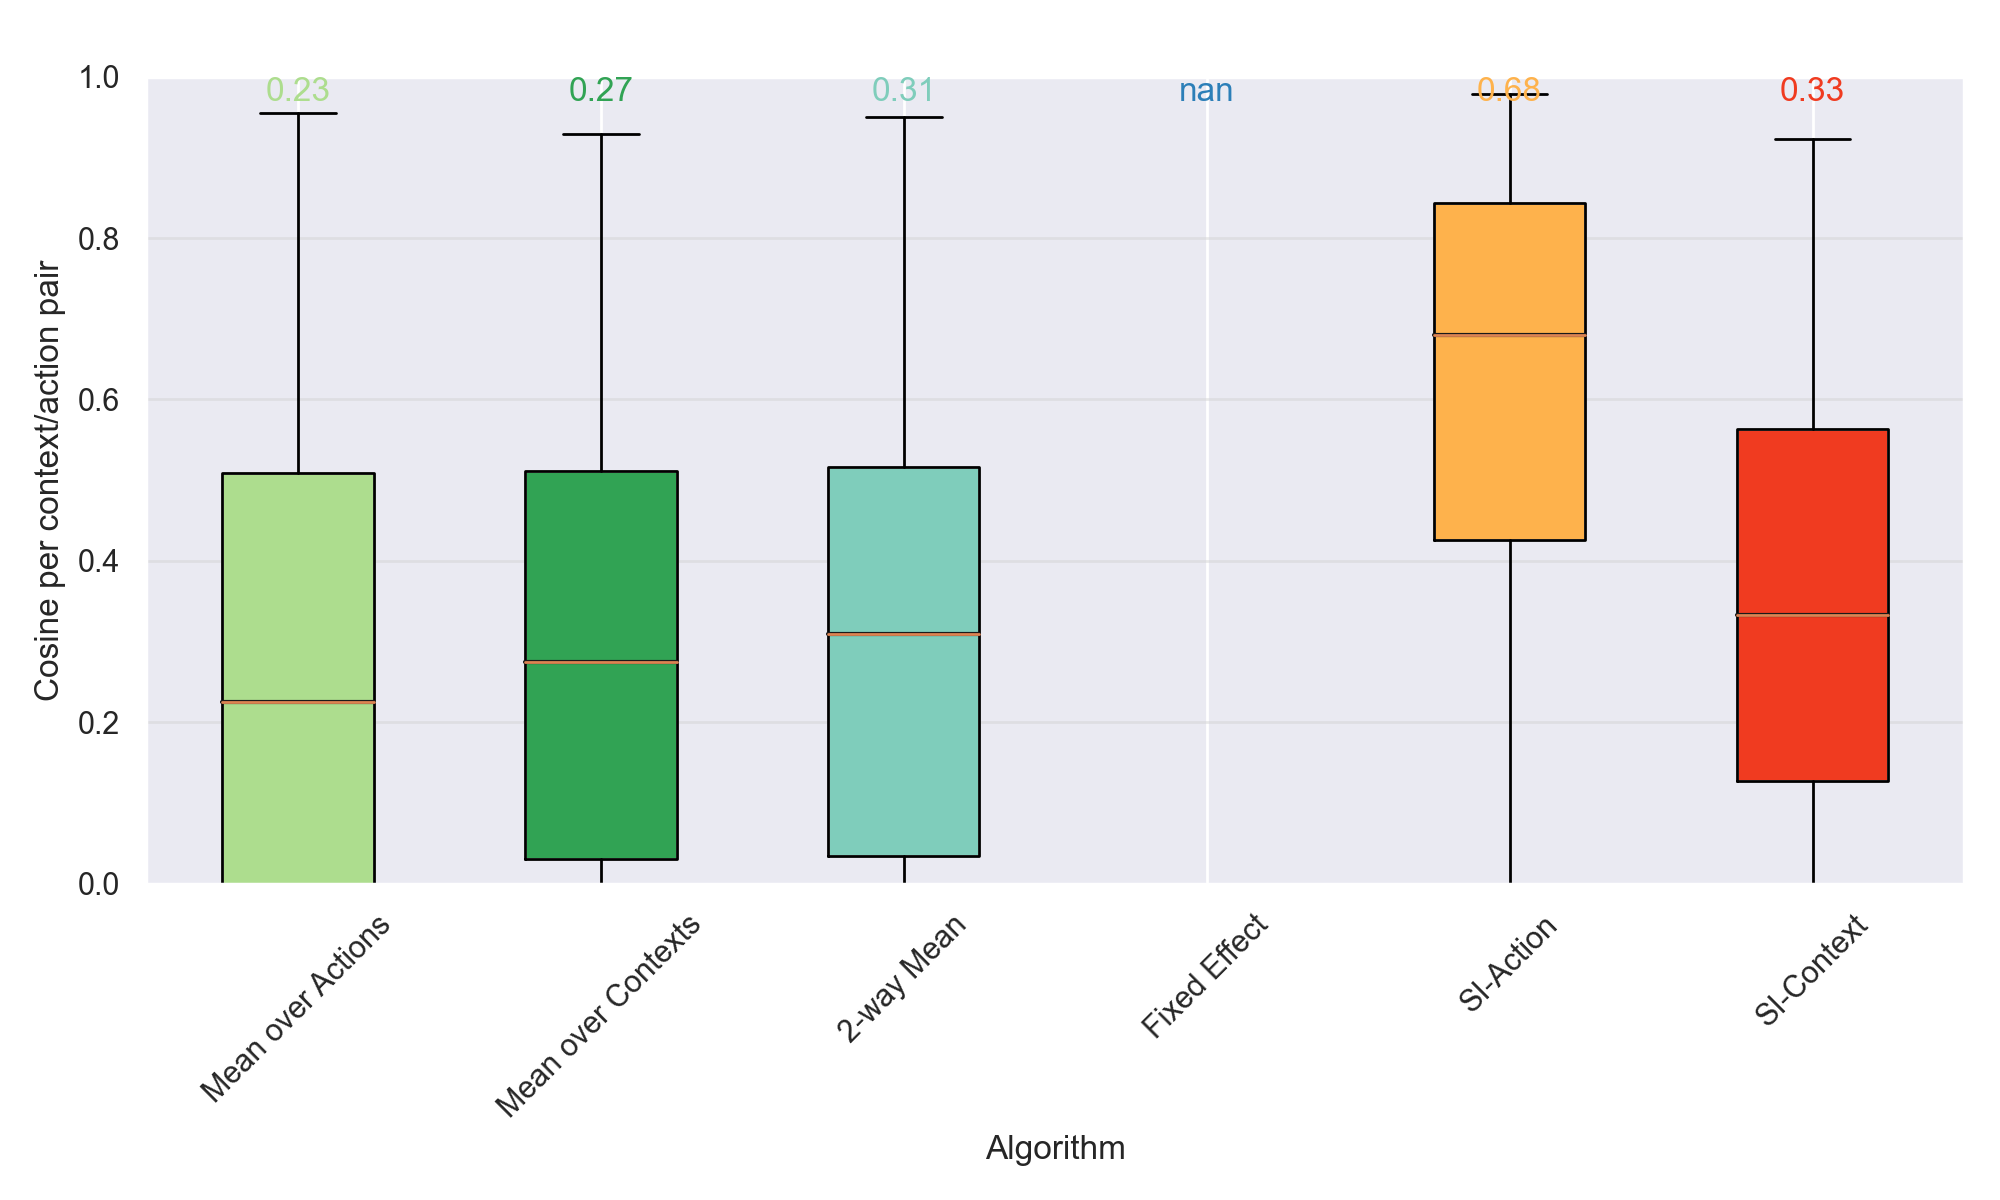
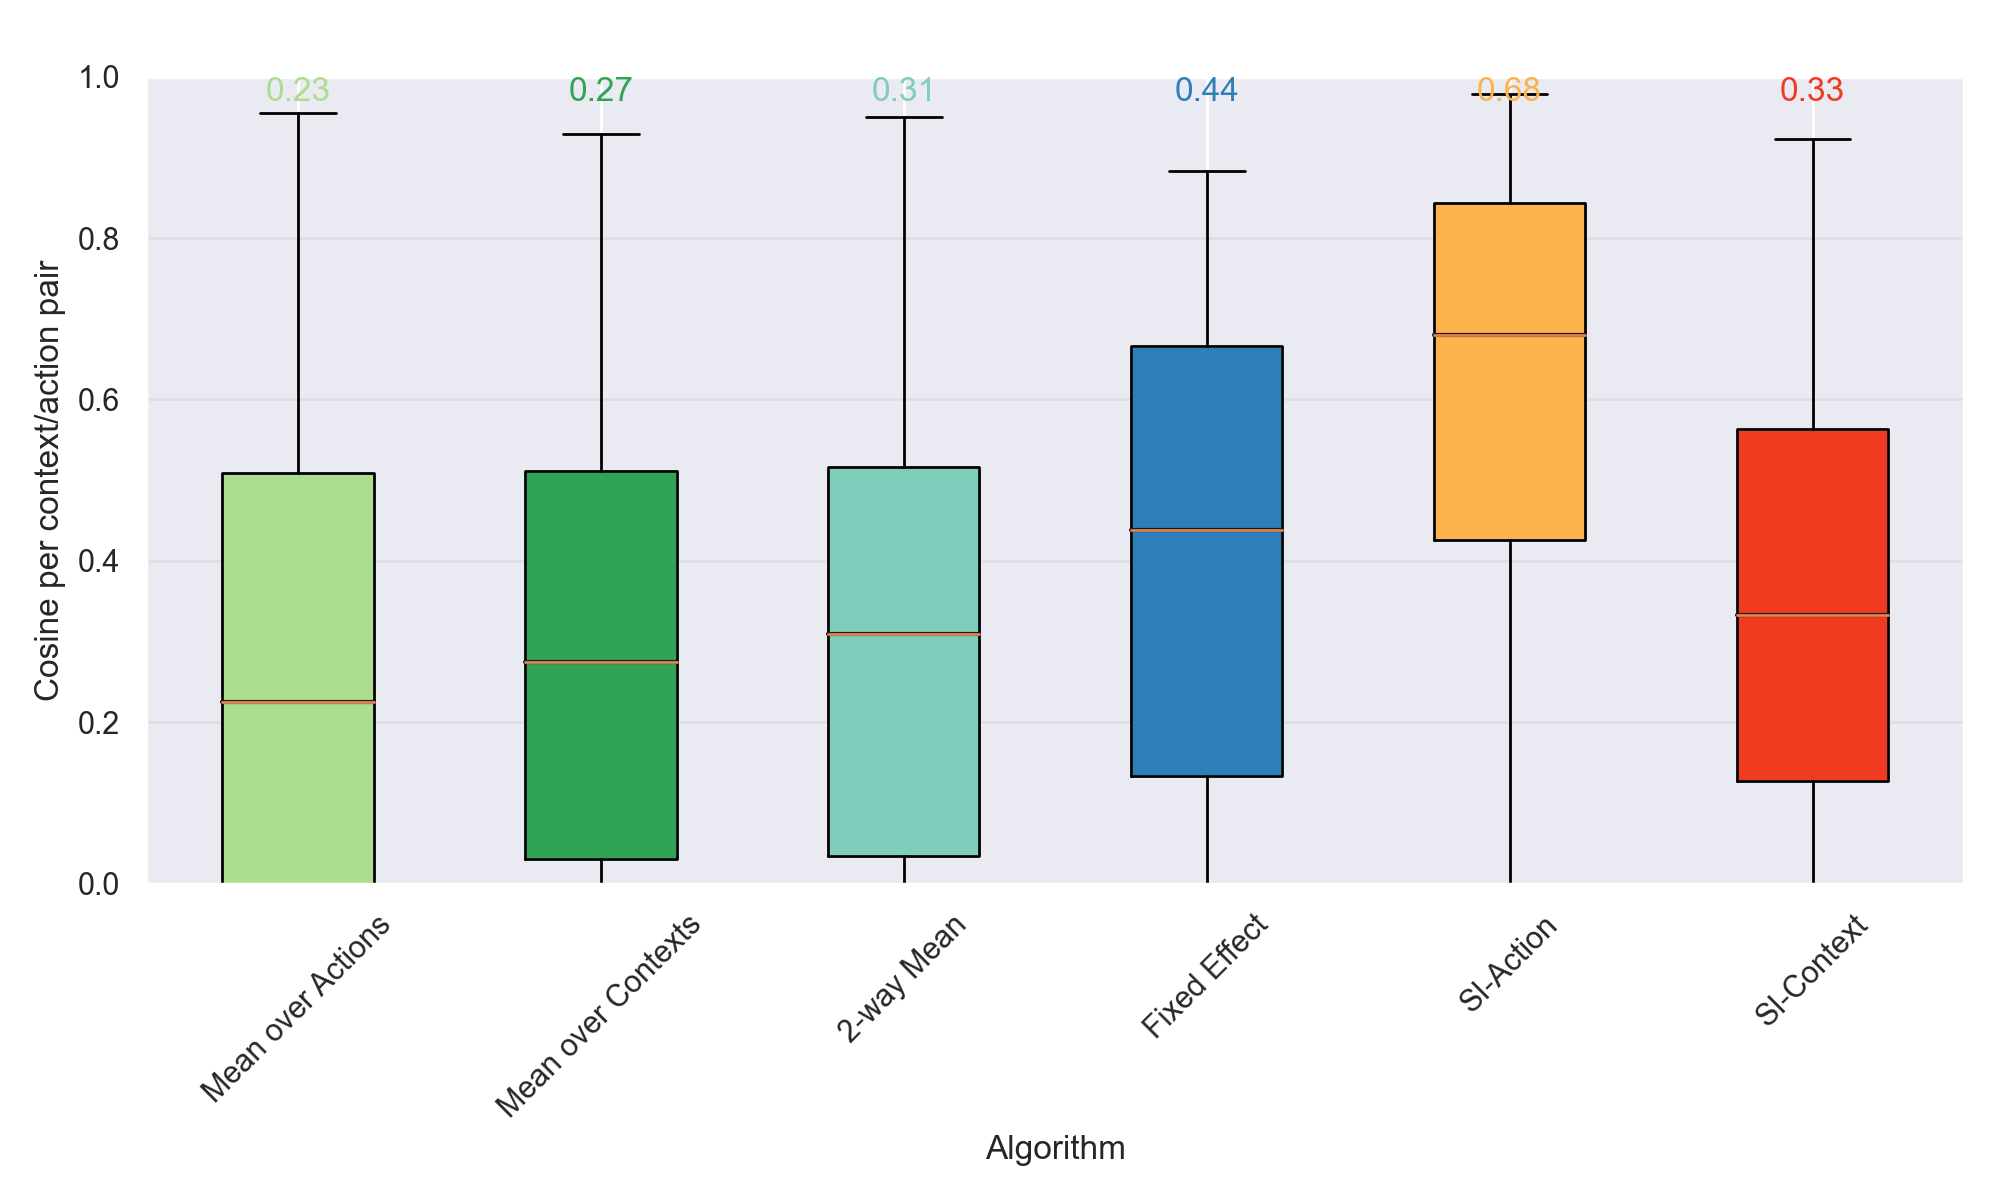
fix cosines for fixed effect

Changed region(s): [[0.558, 0.2775, 0.651, 0.6475], [0.589, 0.0617, 0.62, 0.0925]]

diff --git a/evaluation/helpers/evaluation_manager.py b/evaluation/helpers/evaluation_manager.py
@@ -154,6 +154,7 @@ class EvaluationManager:
         controls.columns = self.true_results.columns
         true_diffs = self.true_results.subtract(controls, level="unit")
         predicted_diffs = self.collected_results.subtract(controls, level="unit")
+        # ipdb.set_trace()
         cosines = compute_cosine_sim(true_diffs, predicted_diffs)
         return pd.DataFrame(cosines, index=self.true_results.index)
 
@@ -191,6 +192,10 @@ class EvaluationManager:
         cosine_df = self.cosines()
         algs = list(self.prediction_manager.prediction_filenames.keys())
         cos_dict = {alg_names[alg]: cosine_df.query('alg == @alg').values.flatten() for alg in algs}
+        # === FILTER OUT NAN'S, WHICH COME FROM FIXED EFFECTS PREDICTING THE CONTROL WHEN THERE IS NO
+        # === OTHER CONTEXT WITH THE INTERVENTION
+        cos_dict = {k: v[~np.isnan(v)] for k, v in cos_dict.items()}
+        # cos_dict = {k: np.nan_to_num(v) for k, v in cos_dict.items()}
         plt.clf()
         boxplots(
             cos_dict,
